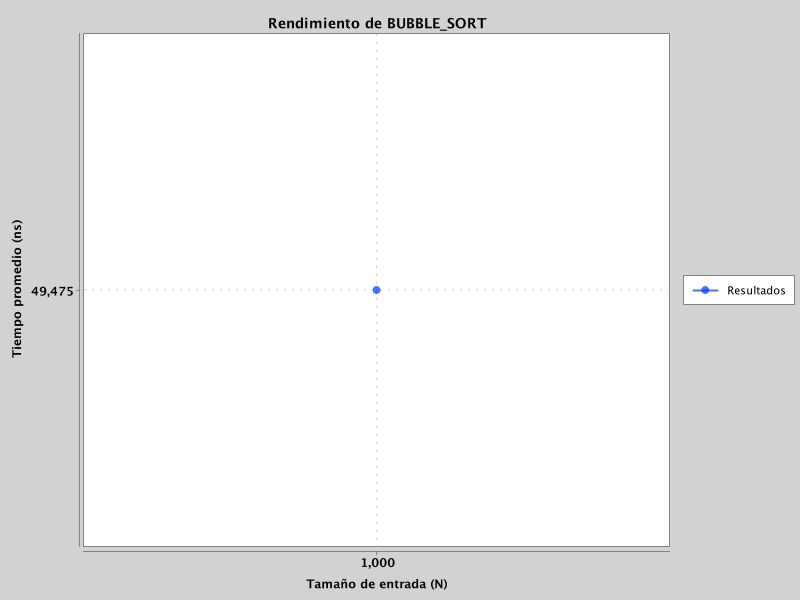
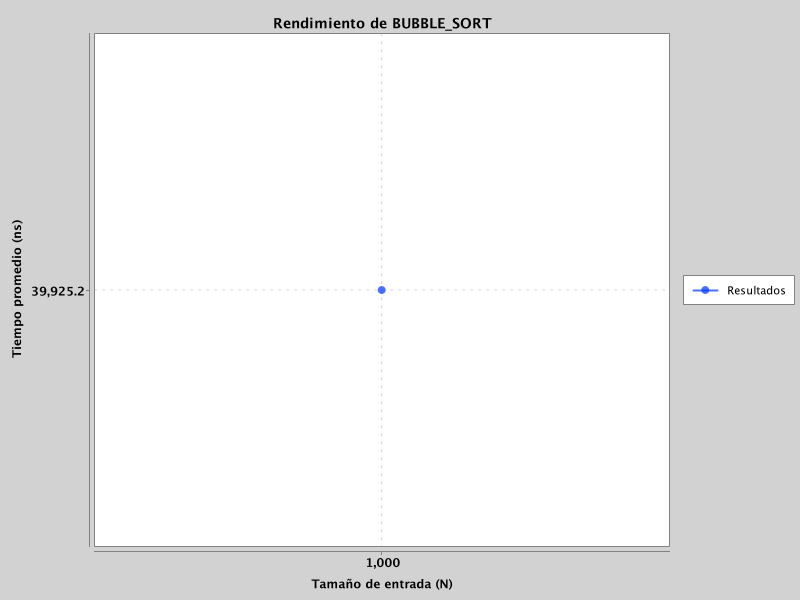
Algorithm Performance Laboratory

diff --git a/src/main/java/com/mx/curso/unidad4/cli/CliApp.java b/src/main/java/com/mx/curso/unidad4/cli/CliApp.java
@@ -11,6 +11,7 @@ import com.mx.curso.unidad4.modulo_estadistica.visualizacion.ChartGenerator;
 import com.mx.curso.unidad4.modulo_estadistica.visualizacion.LineChartGenerator;
 import com.mx.curso.unidad4.motor_medicion.Scenario;
 
+import java.util.ArrayList;
 import java.util.List;
 import java.util.Scanner;
 
@@ -28,7 +29,7 @@ public class CliApp {
     private static void showWelcome() {
         System.out.println("========================================");
         System.out.println("   ALGORITHM PERFORMANCE LABORATORY");
-        System.out.println("        Powered by NeuralNexus     ");
+        System.out.println("        Powered by NeuralNexus 🧠    ");
         System.out.println("========================================");
     }
 
@@ -37,13 +38,25 @@ public class CliApp {
         int option;
         do {
             System.out.println("\n1) Ejecutar nuevo experimento");
+            System.out.println("2) Ejecutar batch completo (varios tamaños y escenarios)");
             System.out.println("0) Salir");
             System.out.print("Opción: ");
 
             option = scanner.nextInt();
 
-            if (option == 1) {
-                runExperimentFlow();
+            switch (option) {
+                case 1:
+                    runExperimentFlow();  // tu flujo normal
+                    break;
+                case 2:
+                    AlgorithmType algorithmType = selectAlgorithm();
+                    runBatchExperiment(algorithmType);
+                    break;
+                case 0:
+                    System.out.println("Saliendo del laboratorio...");
+                    break;
+                default:
+                    System.out.println("Opción fuera de rango.");
             }
 
         } while (option != 0);
@@ -240,5 +253,49 @@ public class CliApp {
         System.out.println("📈 Gráfico generado en: " + outputPath);
     }
 
+    private static void runBatchExperiment(AlgorithmType algorithmType) {
+        int[] sizes = {1_000, 10_000, 100_000, 1_000_000};
+        Scenario[] scenarios = {Scenario.BEST_CASE, Scenario.AVERAGE_CASE, Scenario.WORST_CASE};
+        ExperimentFacade facade = new DefaultExperimentFacade();
+
+        for (Scenario scenario : scenarios) {
+            List<AnalyzedExperiment> experimentsBatch = new ArrayList<>();
+
+            for (int size : sizes) {
+                AnalyzedExperiment experiment =
+                        (AnalyzedExperiment) facade.runExperiment(algorithmType, size, scenario);
+
+                experimentsBatch.add(experiment);
+
+                System.out.println("✔ Experimento completado: "
+                        + algorithmType
+                        + " | Tamaño: " + size
+                        + " | Escenario: " + scenario);
+            }
+
+            // Generar gráfico con todos los puntos del batch
+            ChartDataMapper mapper = new DefaultChartDataMapper();
+            ChartGenerator generator = new LineChartGenerator();
+
+            ChartData data = mapper.map(
+                    algorithmType + " - " + scenario.name(),
+                    "Tamaño de entrada (N)",
+                    "Tiempo promedio (ns)",
+                    experimentsBatch
+            );
+
+            String outputPath = "results/"
+                    + algorithmType
+                    + "_"
+                    + scenario.name()
+                    + ".png";
+
+            generator.generate(data, outputPath);
+
+            System.out.println("📈 Gráfico de batch generado en: " + outputPath);
+        }
+
+        System.out.println("✅ Batch completo finalizado para " + algorithmType);
+    }
 
 }
